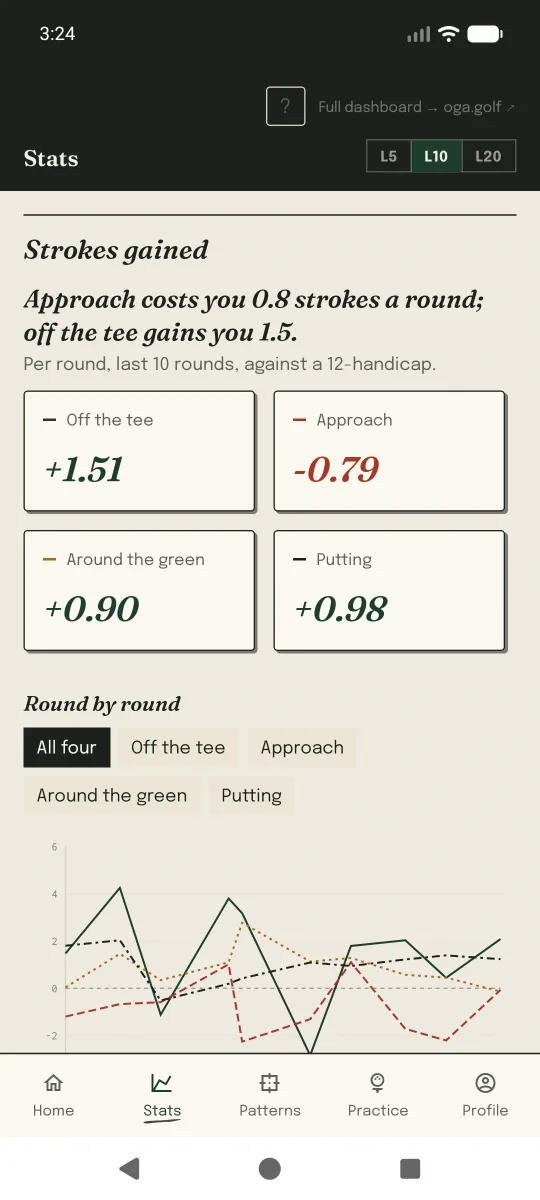
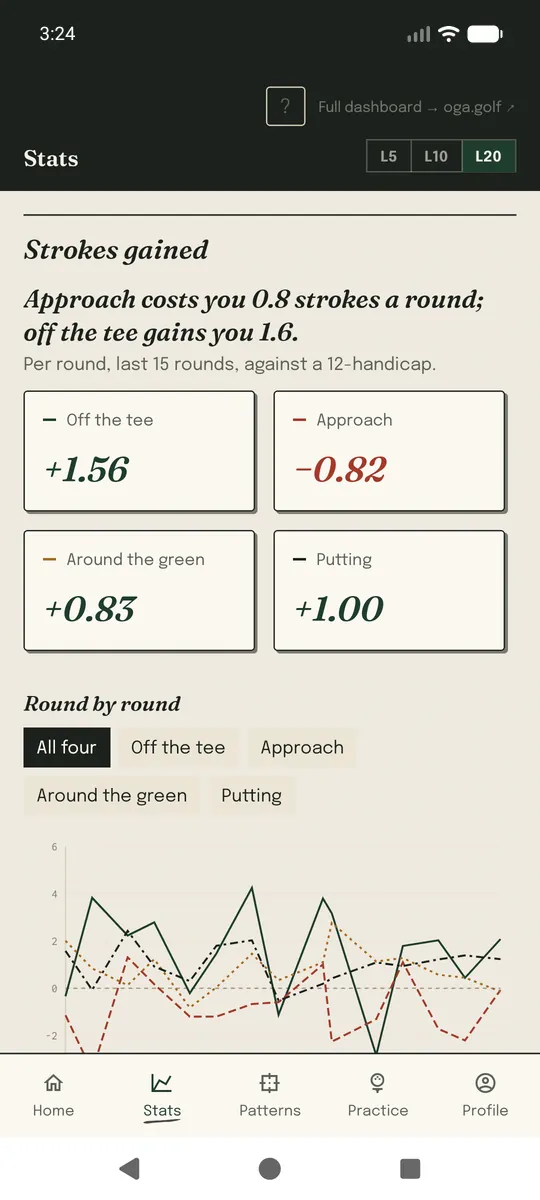
fix(web): the landing Stats phone reads off the tee 1.6, like the hero (#1243)
stats.webp is recaptured from mobile Stats at L20 (promo user, 15
rounds), so it agrees with the Home phone; the sentence, alt and
caption now say last 15 rounds.

diff --git a/apps/web/src/pages/landing/LandingPage.tsx b/apps/web/src/pages/landing/LandingPage.tsx
@@ -33,10 +33,10 @@ export function LandingPage() {
       </Finding>
       <Finding
         reverse
-        sentence="Over your last 10 rounds, off the tee gains you 1.5 strokes a round. Approach gives back 0.8."
+        sentence="Over your last 15 rounds, off the tee gains you 1.6 strokes a round. Approach gives back 0.8."
         src="/landing/stats.webp"
-        alt="Stats, last 10 rounds against a 12-handicap: off the tee +1.51, approach −0.79, around the green +0.90, putting +0.98, with a round-by-round chart"
-        caption="Stats, last 10 rounds"
+        alt="Stats, last 15 rounds against a 12-handicap: off the tee +1.56, approach −0.82, around the green +0.83, putting +1.00, with a round-by-round chart"
+        caption="Stats, last 15 rounds"
         to="/learn/strokes-gained"
         linkLabel="How strokes gained works"
       >
